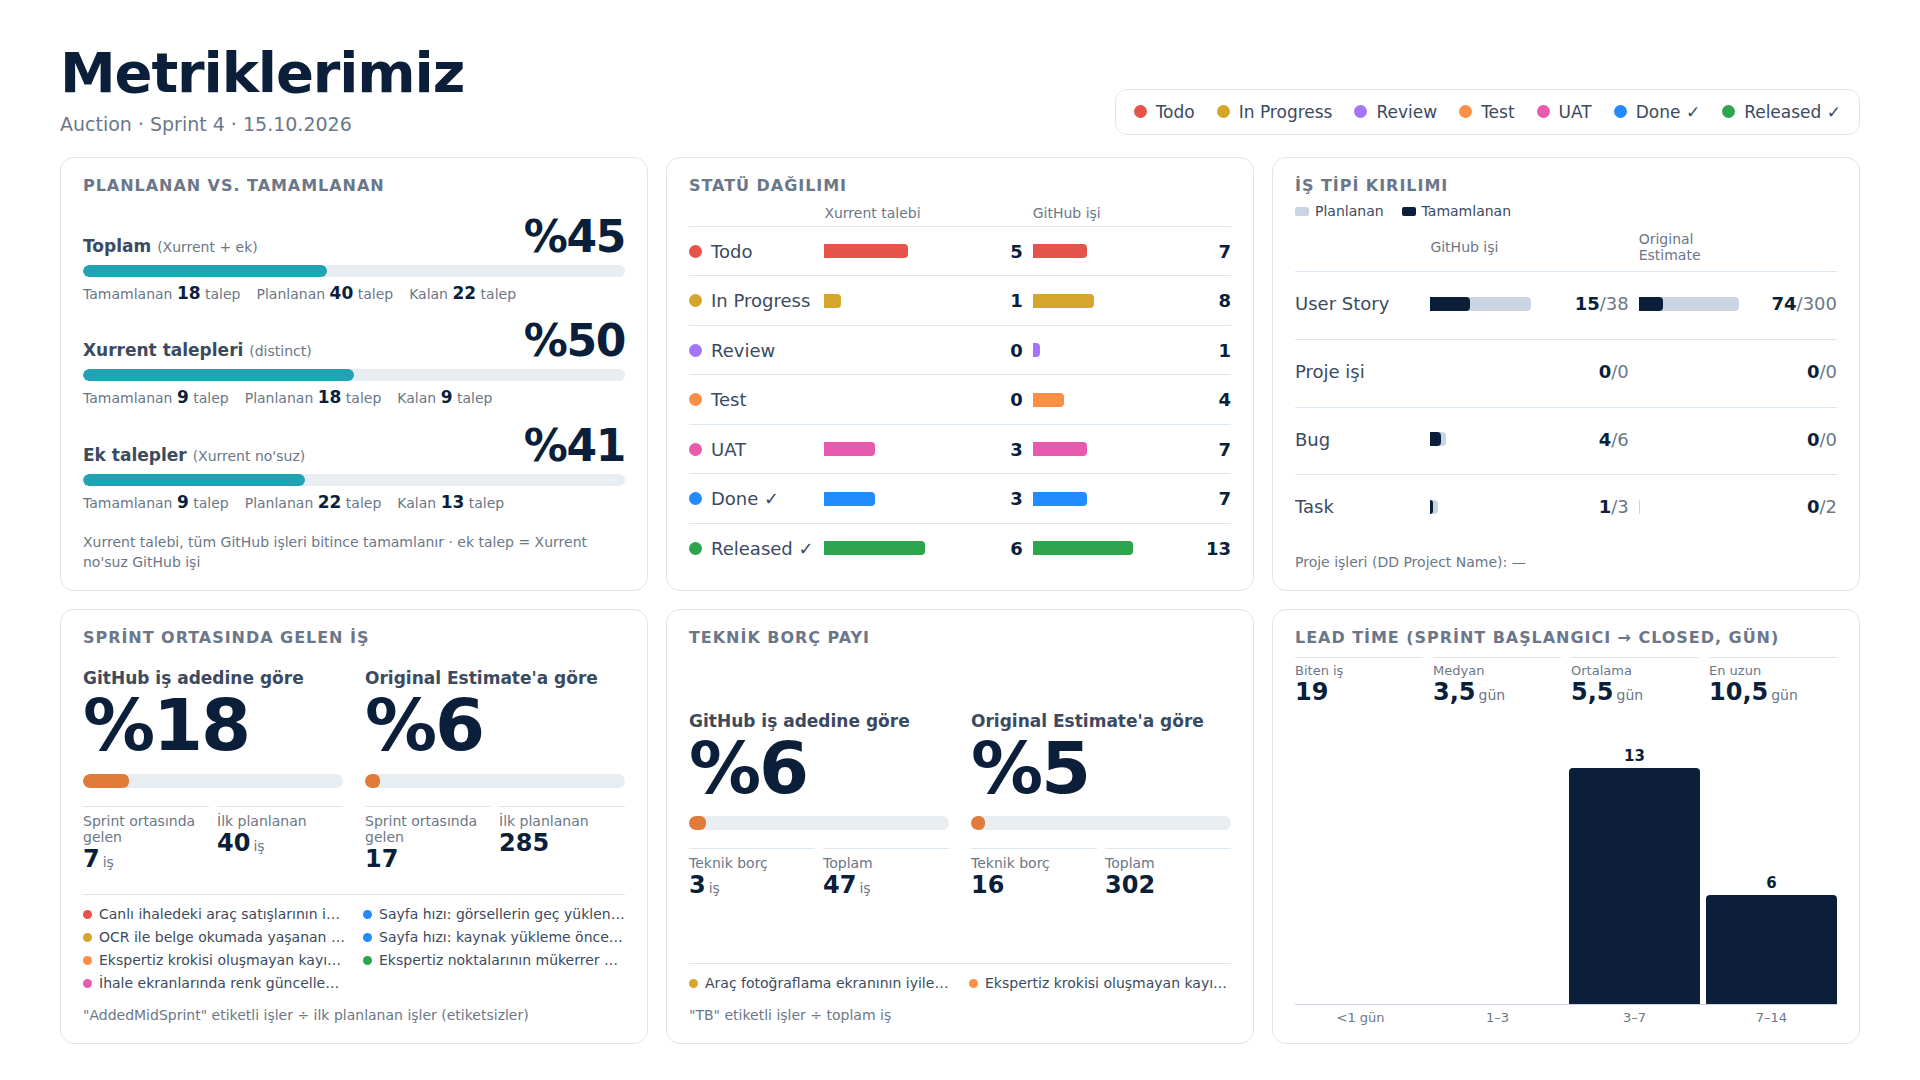
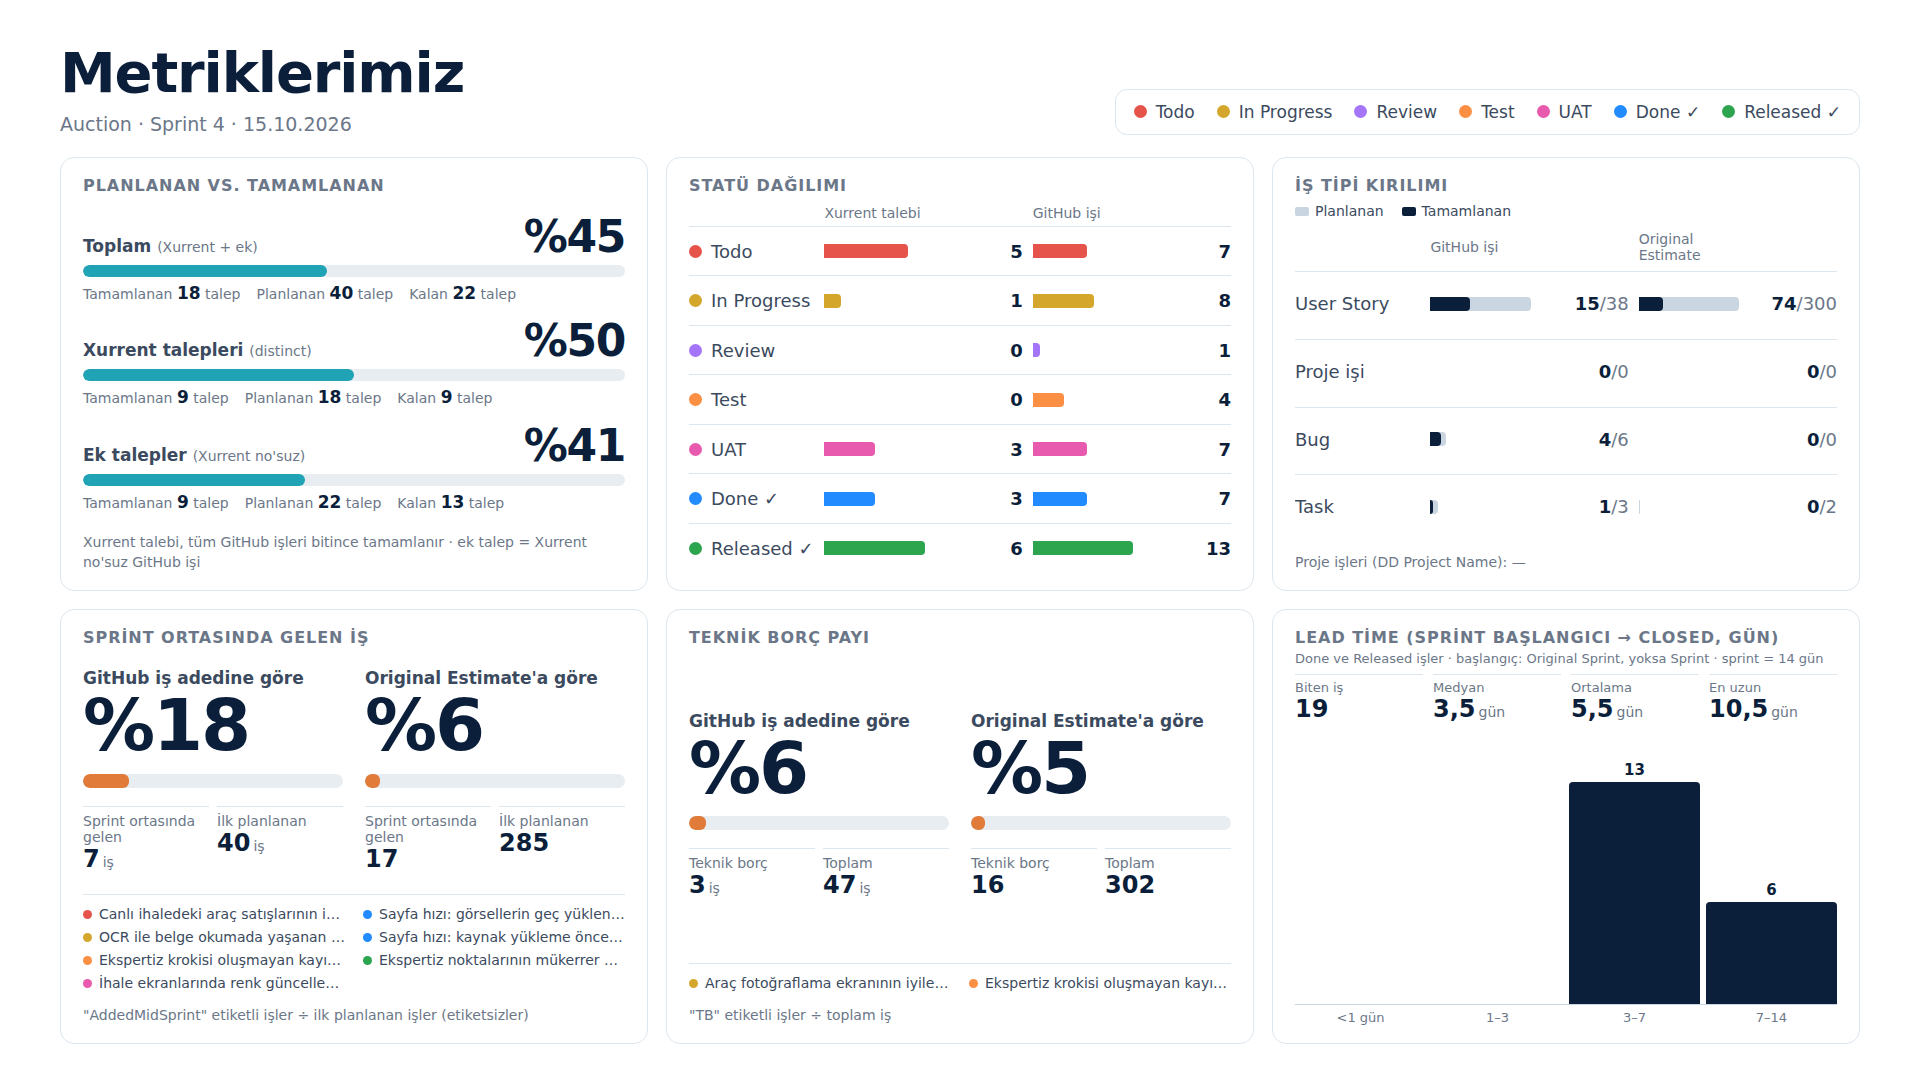
Lead time from Original Sprint start for Done/Released only; carry marker only when Original Sprint differs
- Original Sprint values like '3' are read as 'Sprint 3'; earlier sprints are offset 14 days each from --sprint-start
- histogram counts only Done and Released items (--lead-status)
- regenerate Auction 15.10.2026 slides from the v3 export

Claude-Session: https://claude.ai/code/session_014SYUQQBmb2NC56QaszpaqB

Changed region(s): [[0.6562, 0.6111, 0.9375, 0.6722], [0.875, 0.825, 0.9688, 0.8556], [0.8125, 0.7028, 0.9062, 0.7333]]

diff --git a/sunum/auction-2026-10-15/auction-slaytlar.html b/sunum/auction-2026-10-15/auction-slaytlar.html
@@ -84,6 +84,7 @@ h1 span { color:var(--accent); font-weight:600; }
 .lstats div { display:flex; flex-direction:column; border-top:1px solid var(--rule); padding-top:5px; }
 .lstats span { font-size:13px; color:var(--muted); }
 .lstats b { font-size:24px; font-variant-numeric:tabular-nums; white-space:nowrap; }
+.lsub { font-size:13px; color:var(--muted); margin:-6px 0 8px; }
 .hist { display:flex; flex-direction:column; min-height:0; flex:1; }
 .hplot { flex:1; min-height:80px; display:flex; align-items:flex-end; gap:6px; border-bottom:1px solid var(--plan); }
 .hcol { flex:1; height:100%; display:flex; flex-direction:column; justify-content:flex-end; }
@@ -162,9 +163,9 @@ Done · Araç Fotoğraflama Ekran Düzenlemeleri BE"><span class="dot" style="--
 <li class="" title="In Progress · One Click Auction - Araç Satıldı Bilgisi"><span class="dot" style="--c:#D4A72C"></span><span class="t"><span class="cat story">User Story</span> Tek tıkla ihale: aracın satıldı bilgisinin iletilmesi</span><span class="cnt">1 talep</span></li>
 <li class="" title="In Progress · One Click Auction - Araç Bilgilerinin SmartIq&#x27;dan Jarvise İletilmesi"><span class="dot" style="--c:#D4A72C"></span><span class="t"><span class="cat story">User Story</span> Tek tıkla ihale: araç bilgilerinin SmartIQ&#x27;dan Jarvis&#x27;e aktarılması</span><span class="cnt">1 talep</span></li>
 <li class="" title="In Progress · One Click Auction - Araçların İhaleye Eklenmesi"><span class="dot" style="--c:#D4A72C"></span><span class="t"><span class="cat story">User Story</span> Tek tıkla ihale: araçların ihaleye eklenmesi</span><span class="cnt">1 talep</span></li>
-<li class="" title="In Progress · One Click Auction - İhaleye Eklenen/Çıkartılan Araç Statüleri Hk."><span class="dot" style="--c:#D4A72C"></span><span class="t"><span class="cat story">User Story</span> Tek tıkla ihale: ihaleye eklenen / çıkarılan araçların statü takibi</span><span class="cnt">1 talep</span></li>
-<li class="" title="Review · Satıcı İçin Dijital Üyelik Geliştirmesi FE
-Test · Satıcı İçin Dijital Üyelik Geliştirmesi BE"><span class="dot" style="--c:#A475F9"></span><span class="t"><span class="cat story">User Story</span> Satıcılar için dijital üyelik</span><span class="cnt">2 talep</span></li>
+<li class="carried" title="In Progress · One Click Auction - İhaleye Eklenen/Çıkartılan Araç Statüleri Hk."><span class="dot" style="--c:#D4A72C"></span><span class="t"><span class="cat story">User Story</span> Tek tıkla ihale: ihaleye eklenen / çıkarılan araçların statü takibi <span class="carry" title="Original Sprint: Sprint 3">↪ Aktarıldı: Sprint 3</span></span><span class="cnt">1 talep</span></li>
+<li class="carried" title="Review · Satıcı İçin Dijital Üyelik Geliştirmesi FE
+Test · Satıcı İçin Dijital Üyelik Geliştirmesi BE"><span class="dot" style="--c:#A475F9"></span><span class="t"><span class="cat story">User Story</span> Satıcılar için dijital üyelik <span class="carry" title="Original Sprint: Sprint 3">↪ Aktarıldı: Sprint 3</span></span><span class="cnt">2 talep</span></li>
 <li class="" title="Test · Ekspertiz Krokisi Oluşmayan Kayıtlar İçin Jarviste Servisinin Oluşturulması"><span class="dot" style="--c:#FB8F44"></span><span class="t"><span class="cat story">User Story</span> Ekspertiz krokisi oluşmayan kayıtlar için Jarvis servisi</span><span class="cnt">1 talep</span></li>
 <li class="" title="UAT · Araç Detay Kartında Kaporta Ekspertiz Gösterimi BE
 UAT · Araç Detay Kartında Kaporta Ekspertiz Gösterimi"><span class="dot" style="--c:#E85AAD"></span><span class="t"><span class="cat story">User Story</span> Araç detay kartında kaporta ekspertiz bilgisinin gösterilmesi<span class="xno">#82634159</span></span><span class="cnt">2 talep</span></li>
@@ -272,6 +273,7 @@ Released · Toplu Ekspertiz Sıralama Fonksiyonu Eklenmesi BE"><span class="dot"
       <ul class="names"><li><span class="dot" style="--c:#D4A72C"></span>Araç fotoğraflama ekranının iyileştirilmesi</li><li><span class="dot" style="--c:#FB8F44"></span>Ekspertiz krokisi oluşmayan kayıtlar için Jarvis servisi</li></ul>
       <div class="pfoot">"TB" etiketli işler ÷ toplam iş</div></div>
     <div class="panel"><div class="ptitle">Lead time (Sprint başlangıcı → Closed, gün)</div>
+      <div class="lsub">Done ve Released işler · başlangıç: Original Sprint, yoksa Sprint · sprint = 14 gün</div>
       <div class="lstats"><div><span>Biten iş</span><b>19</b></div><div><span>Medyan</span><b>3,5<small>gün</small></b></div><div><span>Ortalama</span><b>5,5<small>gün</small></b></div><div><span>En uzun</span><b>10,5<small>gün</small></b></div></div><div class="hist"><div class="hplot"><div class="hcol" title="&lt;1 gün gün: 0"><div class="hval"></div><div class="hbar" style="height:0.00%;background:var(--ink)"></div></div><div class="hcol" title="1–3 gün: 0"><div class="hval"></div><div class="hbar" style="height:0.00%;background:var(--ink)"></div></div><div class="hcol" title="3–7 gün: 13"><div class="hval">13</div><div class="hbar" style="height:82.00%;background:var(--ink)"></div></div><div class="hcol" title="7–14 gün: 6"><div class="hval">6</div><div class="hbar" style="height:37.85%;background:var(--ink)"></div></div></div><div class="hx"><div>&lt;1 gün</div><div>1–3</div><div>3–7</div><div>7–14</div></div></div></div>
   </div>
 </section></div>

diff --git a/.claude/skills/gelistirmeler-raporu/scripts/build_slides.py b/.claude/skills/gelistirmeler-raporu/scripts/build_slides.py
@@ -130,12 +130,23 @@ def sprint_starts(specs: list[str], days: int) -> callable:
     return start
 
 
-def lead_days(it: dict, start):
+def sprint_label(v) -> str:
+    """'3', 3.0, 'Sprint 3' → 'Sprint 3'; diğer değerler olduğu gibi."""
+    v = re.sub(r"\.0$", "", str(v or "").strip())
+    return f"Sprint {v}" if v.isdigit() else v
+
+
+def sprint_no(v):
+    m = re.search(r"(\d+)", v or "")
+    return int(m.group(1)) if m else None
+
+
+def lead_days(it: dict, start, finished: set):
     """Biten işin lead time'ı: Original Sprint doluysa o sprintin, değilse işin
     sprintinin başlangıcından Closed tarihine kadar geçen gün."""
     d = parse_ts(it.get("closed"))
     s0 = start(it["origin"] or it["sprint"])
-    if it["done"] and d and s0:
+    if tr_lower(it["status"]) in finished and d and s0:
         return max((d - s0).total_seconds() / 86400, 0.0)
     return None
 
@@ -166,7 +177,7 @@ def group_items(rows: list[dict], order: dict, themes: dict) -> list[dict]:
         g["kind"] = sorted(kinds, key=lambda k: (-kinds[k], TYPES.index(k)))[0]
         g["status"] = min((i["status"] for i in its), key=lambda s: order.get(s, 999))
         g["done"] = all(i["done"] for i in its)
-        g["carry"] = sorted({i["origin"] for i in its if i["origin"]})
+        g["carry"] = sorted({i["origin"] for i in its if i["carried"]})
         g["est"] = sum(i["est"] for i in its)
         out.append(g)
     return sorted(out, key=lambda g: (order.get(g["status"], 999), tr_lower(g["name"])))
@@ -323,10 +334,12 @@ def build(a) -> None:
             r["xno"] = m.group(1) if m else None
             if m and has_xfield:
                 title_fallback.append(f'#{(r.get("url") or "").rsplit("/", 1)[-1]} → {m.group(1)}')
-        r["origin"] = str(r["fields"].get(a.origin_field) or "").strip()
-        r["sprint"] = str(r["fields"].get(a.sprint_field) or "").strip()
+        r["origin"] = sprint_label(r["fields"].get(a.origin_field))
+        r["sprint"] = sprint_label(r["fields"].get(a.sprint_field))
+        # Original Sprint, işin şimdiki sprintinden farklıysa önceki sprintten aktarılmıştır
+        r["carried"] = bool(r["origin"]) and sprint_no(r["origin"]) != sprint_no(r["sprint"])
         r["kind"] = classify(r, a.project_field, task_kw)
-        r["lead"] = lead_days(r, start_of)
+        r["lead"] = lead_days(r, start_of, {tr_lower(s) for s in a.lead_status})
         r["mid"] = has_label(r, a.mid_label)
         r["tb"] = has_label(r, a.tb_label)
     if not has_xfield:
@@ -466,7 +479,7 @@ def build(a) -> None:
                                       {"key": "e", "done": "ed", "head": est_label}]),
         projects=proj_txt, pfield=esc(a.project_field), midp=midp, tbp=tbp,
         mid_label=esc(a.mid_label[0]), tb_label=esc(a.tb_label[0]), mid_list=mid_list, tb_list=tb_list,
-        lead_stats=lead_stats, hist=hist, oe=oe, est_label=esc(est_label),
+        lead_stats=lead_stats, hist=hist, sprint_days=a.sprint_days, oe=oe, est_label=esc(est_label),
         status_oe=multi_table(status_rows, [{"key": "e", "head": est_label}]),
         people=multi_table(people_rows, [{"key": "c", "done": "cd", "head": "GitHub işi"},
                                          {"key": "e", "done": "ed", "head": est_label}], 1.6),
@@ -575,6 +588,7 @@ h1 span {{ color:var(--accent); font-weight:600; }}
 .lstats div {{ display:flex; flex-direction:column; border-top:1px solid var(--rule); padding-top:5px; }}
 .lstats span {{ font-size:13px; color:var(--muted); }}
 .lstats b {{ font-size:24px; font-variant-numeric:tabular-nums; white-space:nowrap; }}
+.lsub {{ font-size:13px; color:var(--muted); margin:-6px 0 8px; }}
 .hist {{ display:flex; flex-direction:column; min-height:0; flex:1; }}
 .hplot {{ flex:1; min-height:80px; display:flex; align-items:flex-end; gap:6px; border-bottom:1px solid var(--plan); }}
 .hcol {{ flex:1; height:100%; display:flex; flex-direction:column; justify-content:flex-end; }}
@@ -660,6 +674,7 @@ h1 span {{ color:var(--accent); font-weight:600; }}
       <ul class="names">{tb_list}</ul>
       <div class="pfoot">"{tb_label}" etiketli işler ÷ toplam iş</div></div>
     <div class="panel"><div class="ptitle">Lead time (Sprint başlangıcı → Closed, gün)</div>
+      <div class="lsub">Done ve Released işler · başlangıç: Original Sprint, yoksa Sprint · sprint = {sprint_days} gün</div>
       <div class="lstats">{lead_stats}</div>{hist}</div>
   </div>
 </section></div>
@@ -735,6 +750,8 @@ def main() -> None:
     ap.add_argument("--sprint-start", action="append",
                     help="Sprint başlangıcı, ör. 'Sprint 4=2026-10-05' (tekrarlanabilir; eksikler --sprint-days ile türetilir)")
     ap.add_argument("--sprint-days", type=int, default=14, help="Sprint uzunluğu (gün)")
+    ap.add_argument("--lead-status", action="append", default=None,
+                    help="Lead time'da biten sayılan statüler (varsayılan Done, Released)")
     ap.add_argument("--estimate-field", default="Original Estimate")
     ap.add_argument("--estimate-field-id", type=int, default=None)
     ap.add_argument("--estimate-label", default="Original Estimate")
@@ -762,6 +779,7 @@ def main() -> None:
     a.tb_label = a.tb_label or ["TB", "Teknik Borç", "Tech Debt"]
     a.ready_label = a.ready_label or ["Ready For Release"]
     a.ready_status = a.ready_status or ["Done"]
+    a.lead_status = a.lead_status or ["Done", "Released"]
     build(a)
 
 

diff --git a/.claude/skills/gelistirmeler-raporu/SKILL.md b/.claude/skills/gelistirmeler-raporu/SKILL.md
@@ -112,9 +112,11 @@ Kullanıcı slayt / sunum / sprint sunumu / 16:9 / PNG isterse `build_slides.py`
    - Sprint ortasında gelen iş: `AddedMidSprint` etiketli ÷ ilk planlanan (etiketsiz),
      hem iş adedi hem OE; altında o işlerin tema adları.
    - Teknik borç payı: `TB` etiketli ÷ toplam, hem iş adedi hem OE; altında tema adları.
-   - Lead time histogramı (yalnız adet): **biten** işlerde (Done/Released vb.) sprint
-     başlangıcından Closed tarihine kadar geçen gün. `Original Sprint` doluysa o sprintin,
-     boşsa işin `Sprint` alanındaki sprintin başlangıcı esas alınır.
+   - Lead time histogramı (yalnız adet): yalnızca **Done ve Released** statüsündeki
+     işler (`--lead-status`; Closed tarihi olup başka statüde olanlar sayılmaz). Süre,
+     sprint başlangıcından Closed tarihine kadar geçen gün. `Original Sprint` doluysa o
+     sprintin, boşsa işin `Sprint` alanındaki sprintin başlangıcı esas alınır; önceki
+     sprintler mevcut sprintten geriye her biri `--sprint-days` (14) gün sayılarak bulunur.
 3. **Metriklerimiz (Takıma özel)** — Original Estimate bazında planlanan vs. tamamlanan
    (toplam / Xurrent talepleri / ek talepler; iş bazında), statü dağılımı (OE) ve kişi
    bazında planlanan vs. tamamlanan (GitHub işi | OE).
@@ -153,7 +155,7 @@ yeniden kullanılabilir).
 | Seçenek | Varsayılan | Not |
 |---|---|---|
 | `--xurrent-field` | `Xurrent Talep No` | Sütun esastır (başlıktaki numaradan farklı olabilir). Sütun yoksa ya da hücre boşsa başlığın başındaki numara (`82634239 - …`, `+82634239 - …`) kullanılır; boş hücre için uyarı basılır — kullanıcıya bildir |
-| `--origin-field` | `Original Sprint` | Doluysa "aktarıldı" belirteci; sütun yoksa uyarı verir |
+| `--origin-field` | `Original Sprint` | Değer `3` ya da `Sprint 3` olabilir. İşin `Sprint`'inden farklıysa "aktarıldı" belirteci gösterilir (aynıysa gösterilmez); sütun yoksa uyarı verir |
 | `--sprint-field` | `Sprint` | Alt başlıkta gösterilir; lead time başlangıcı |
 | `--sprint-start` | — | **Zorunlu (lead time için):** `'Sprint 4=2026-10-05'`; tekrarlanabilir. Tanımlanmayan sprintler numarası ve `--sprint-days` (14) ile türetilir. Export'ta sprint tarihi yoktur — kullanıcıya sor veya bilinen bir tarihten çıkar ve varsayımı söyle |
 | `--mid-label` | `AddedMidSprint` | Sprint ortasında gelen iş |
